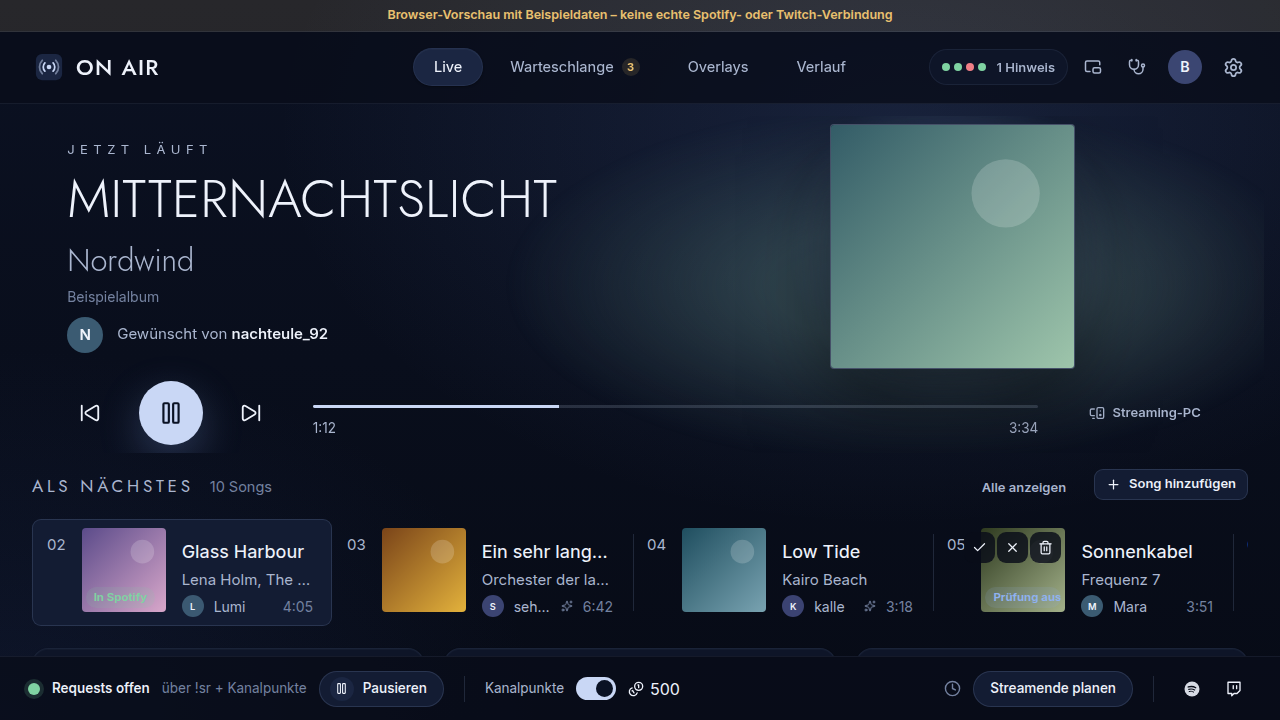
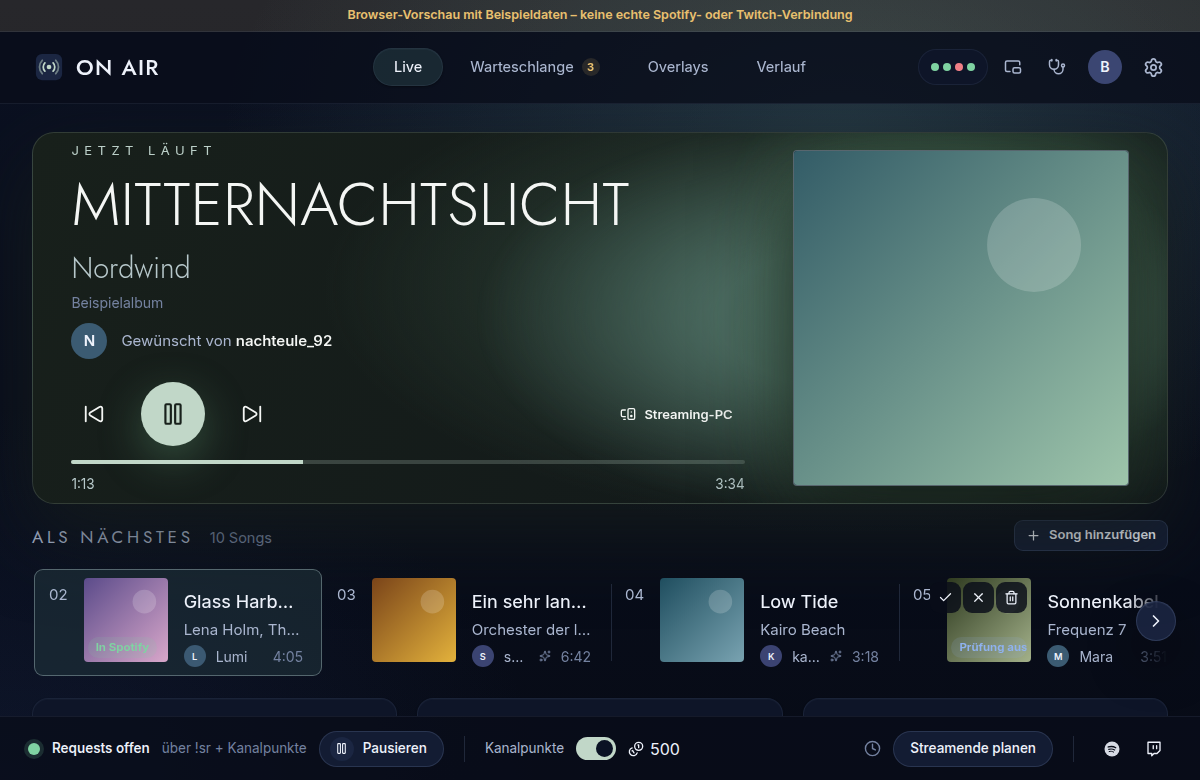
ON AIR: Stimmige Proportionen der „Jetzt läuft“-Bühne
Titel, Interpret, Wunsch und Steuerung stehen links in einer Spalte; das Cover rechts ist so
groß wie dieser Block und schließt bündig ab (vorher: kleines Cover mittig in einer eigenen
Spalte, große Lücke, Steuerung über die ganze Breite). Gerät/Link neben den Tasten, Fortschritt
darunter; kleines Cover statt keinem bei niedrigen Fenstern.

Claude-Session: https://claude.ai/code/session_01JDDQfEFboTURNtnU1jZ9fM

diff --git a/on-air/src/components/NowPlaying.tsx b/on-air/src/components/NowPlaying.tsx
@@ -92,56 +92,58 @@ export function NowPlayingCard({ snap, onConnect }: { snap: AppSnapshot; onConne
   return (
     <HeroFrame cover={cover}>
       <div className="stage-body">
-        <div className="stage-text">
-          <span className="stage-kicker">{kicker}{track?.explicit ? <Badge title={t("q.explicit_label")}>{t("q.explicit")}</Badge> : null}</span>
-          <h2 className="stage-title" title={title} style={{ ["--lw" as string]: Math.max(6, ...title.split(/\s+/).map((w) => w.length)) }}>{title}</h2>
-          <div className="stage-artist ellipsis" title={sub}>{sub}</div>
-          {kind === "track" && track!.album ? <div className="stage-album ellipsis">{track!.album}</div> : null}
-          {requester && (
-            <div className="stage-req">
-              <Avatar name={requester} size={36} />
-              <span>{t("np.requested_from")} <b>{requester}</b></span>
-              {requestSource === "channel_points" ? <Sparkles size={14} className="subtle" aria-label={t("rc.points")} /> : null}
+        <div className="stage-main">
+          <div className="stage-text">
+            <span className="stage-kicker">{kicker}{track?.explicit ? <Badge title={t("q.explicit_label")}>{t("q.explicit")}</Badge> : null}</span>
+            <h2 className="stage-title" title={title} style={{ ["--lw" as string]: Math.max(6, ...title.split(/\s+/).map((w) => w.length)) }}>{title}</h2>
+            <div className="stage-artist ellipsis" title={sub}>{sub}</div>
+            {kind === "track" && track!.album ? <div className="stage-album ellipsis">{track!.album}</div> : null}
+            {requester && (
+              <div className="stage-req">
+                <Avatar name={requester} size={36} />
+                <span>{t("np.requested_from")} <b>{requester}</b></span>
+                {requestSource === "channel_points" ? <Sparkles size={14} className="subtle" aria-label={t("rc.points")} /> : null}
+              </div>
+            )}
+          </div>
+          <div className="stage-transport">
+            <div className="stage-buttons">
+              <button className="icon-btn lg" aria-label={t("np.prev")} title={controls && pb.actions.can_skip_prev ? t("np.prev") : disabledReason} disabled={!controls || !pb.actions.can_skip_prev} onClick={() => api.transport("previous").catch(toastError)}><SkipBack size={22} /></button>
+              {pb.is_playing ? (
+                <button className="play-btn" aria-label={t("np.pause")} title={controls ? t("np.pause") : disabledReason} disabled={!controls || !pb.actions.can_pause} onClick={() => api.transport("pause").catch(toastError)}><Pause size={26} /></button>
+              ) : (
+                <button className="play-btn" aria-label={t("np.play")} title={controls ? t("np.play") : disabledReason} disabled={!controls || !pb.actions.can_resume} onClick={() => api.transport("resume").catch(toastError)}><Play size={26} /></button>
+              )}
+              <button className="icon-btn lg" aria-label={t("np.next")} title={controls && pb.actions.can_skip_next ? t("np.next") : disabledReason} disabled={!controls || !pb.actions.can_skip_next} onClick={() => api.transport("next").catch(toastError)}><SkipForward size={22} /></button>
             </div>
-          )}
+            <div className="stage-progress">
+              {stale ? (
+                <div className="row small" style={{ color: "var(--warn)", gap: 6 }}><Info size={14} /> {t("np.stale_hint", { time: clockTime(pb.fetched_at_ms, getLang()) })}</div>
+              ) : kind !== "ad" && dur > 0 ? (
+                <>
+                  <div className="bar" role="progressbar" aria-label={`${duration(progress)} / ${duration(dur)}`} aria-valuemin={0} aria-valuemax={100} aria-valuenow={Math.round(pct)}>
+                    <i style={{ transform: `scaleX(${Math.max(0, Math.min(1, pct / 100))})` }} />
+                  </div>
+                  <div className="stage-times num"><span>{duration(progress)}</span><span>{duration(dur)}</span></div>
+                </>
+              ) : null}
+            </div>
+            <div className="stage-extra">
+              {pb.device && (
+                <button className="btn btn-ghost btn-sm" onClick={() => setDevicesOpen(true)} disabled={!usable} title={t("sp.choose_device")}>
+                  <MonitorSpeaker size={16} /> <span className="ellipsis" style={{ maxWidth: 150 }}>{pb.device.name}</span>
+                </button>
+              )}
+              {link && (
+                <a className="icon-btn" href={link} title={t("np.open_link")} aria-label={t("np.open_link")} onClick={(e) => { e.preventDefault(); void api.openExternal(link).catch(toastError); }}>
+                  <ExternalLink size={17} />
+                </a>
+              )}
+            </div>
+          </div>
         </div>
         <div className="stage-cover">
           {kind === "ad" ? <div className="cover-ph"><Megaphone size={48} /></div> : <Cover url={cover} alt={track?.album ?? ep?.show ?? ""} />}
-        </div>
-      </div>
-      <div className="stage-transport">
-        <div className="stage-buttons">
-          <button className="icon-btn lg" aria-label={t("np.prev")} title={controls && pb.actions.can_skip_prev ? t("np.prev") : disabledReason} disabled={!controls || !pb.actions.can_skip_prev} onClick={() => api.transport("previous").catch(toastError)}><SkipBack size={22} /></button>
-          {pb.is_playing ? (
-            <button className="play-btn" aria-label={t("np.pause")} title={controls ? t("np.pause") : disabledReason} disabled={!controls || !pb.actions.can_pause} onClick={() => api.transport("pause").catch(toastError)}><Pause size={26} /></button>
-          ) : (
-            <button className="play-btn" aria-label={t("np.play")} title={controls ? t("np.play") : disabledReason} disabled={!controls || !pb.actions.can_resume} onClick={() => api.transport("resume").catch(toastError)}><Play size={26} /></button>
-          )}
-          <button className="icon-btn lg" aria-label={t("np.next")} title={controls && pb.actions.can_skip_next ? t("np.next") : disabledReason} disabled={!controls || !pb.actions.can_skip_next} onClick={() => api.transport("next").catch(toastError)}><SkipForward size={22} /></button>
-        </div>
-        <div className="stage-progress">
-          {stale ? (
-            <div className="row small" style={{ color: "var(--warn)", gap: 6 }}><Info size={14} /> {t("np.stale_hint", { time: clockTime(pb.fetched_at_ms, getLang()) })}</div>
-          ) : kind !== "ad" && dur > 0 ? (
-            <>
-              <div className="bar" role="progressbar" aria-label={`${duration(progress)} / ${duration(dur)}`} aria-valuemin={0} aria-valuemax={100} aria-valuenow={Math.round(pct)}>
-                <i style={{ transform: `scaleX(${Math.max(0, Math.min(1, pct / 100))})` }} />
-              </div>
-              <div className="stage-times num"><span>{duration(progress)}</span><span>{duration(dur)}</span></div>
-            </>
-          ) : null}
-        </div>
-        <div className="stage-extra">
-          {pb.device && (
-            <button className="btn btn-ghost btn-sm" onClick={() => setDevicesOpen(true)} disabled={!usable} title={t("sp.choose_device")}>
-              <MonitorSpeaker size={16} /> <span className="ellipsis" style={{ maxWidth: 150 }}>{pb.device.name}</span>
-            </button>
-          )}
-          {link && (
-            <a className="icon-btn" href={link} title={t("np.open_link")} aria-label={t("np.open_link")} onClick={(e) => { e.preventDefault(); void api.openExternal(link).catch(toastError); }}>
-              <ExternalLink size={17} />
-            </a>
-          )}
         </div>
       </div>
       {devicesOpen && <DevicesDialog onClose={() => setDevicesOpen(false)} />}

diff --git a/on-air/src/styles/app.css b/on-air/src/styles/app.css
@@ -204,11 +204,13 @@ a { color: var(--accent); }
 /* ---------- Live: Bühne „Jetzt läuft“ ---------- */
 .live-page { gap: var(--s7); }
 .hero { position: relative; overflow: hidden; isolation: isolate; }
-.stage { border-radius: var(--r-xl); background: transparent; padding: clamp(16px, 2.6vw, 36px) clamp(16px, 4vw, 64px) var(--s5); margin: calc(-1 * var(--s4)) calc(-1 * var(--s4)) 0; }
+.stage { border-radius: var(--r-xl); padding: clamp(20px, 3.2vw, 44px); }
 .hero-bg { position: absolute; inset: 0; z-index: -2; -webkit-mask-image: radial-gradient(closest-side at 70% 50%, #000 35%, transparent); mask-image: radial-gradient(closest-side at 70% 50%, #000 35%, transparent); background-size: cover; background-position: 70% center; filter: blur(70px) saturate(1.1); opacity: .32; transform: scale(1.1); will-change: transform; /* eigene Ebene: der Weichzeichner wird einmal gerastert */ }
 .hero-bg.none { background: radial-gradient(600px 400px at 72% 40%, var(--glow), transparent 70%); filter: none; opacity: 1; }
 
-.stage-body { display: grid; grid-template-columns: minmax(0, 1.1fr) minmax(0, 1fr); gap: clamp(24px, 4vw, 64px); align-items: center; }
+/* Links Titel + Steuerung, rechts das Cover – so groß wie der linke Block, bündig rechts. */
+.stage-body { display: grid; grid-template-columns: minmax(0, 1fr) auto; gap: clamp(28px, 4vw, 72px); align-items: stretch; }
+.stage-main { display: flex; flex-direction: column; justify-content: space-between; gap: clamp(18px, 3vh, 36px); min-width: 0; }
 .stage-text { min-width: 0; display: flex; flex-direction: column; container-type: inline-size; }
 .stage-kicker { display: inline-flex; align-items: center; gap: 10px; font-size: 13px; letter-spacing: 0.42em; text-transform: uppercase; color: var(--text-2); margin-bottom: clamp(10px, 2vh, 18px); }
 .stage-title {
@@ -221,12 +223,15 @@ a { color: var(--accent); }
 .stage-album { color: var(--text-3); font-size: 14px; margin-top: 2px; }
 .stage-req { display: inline-flex; align-items: center; gap: 14px; margin-top: clamp(12px, 2.2vh, 22px); font-size: 17px; color: var(--text-2); }
 .stage-req b { color: var(--text); font-weight: 560; }
-.stage-cover { justify-self: center; width: min(100%, 400px, 44vh); aspect-ratio: 1 / 1; position: relative; }
+.stage-cover { justify-self: end; align-self: center; width: clamp(200px, min(30vw, 46vh), 460px); aspect-ratio: 1 / 1; position: relative; }
 .stage-cover::before { content: ""; position: absolute; inset: -18%; z-index: -1; background: radial-gradient(closest-side, var(--glow), transparent); }
 .stage-cover .cover, .stage-cover .cover-ph { border-radius: 4px; border: 1px solid rgba(200, 215, 245, 0.28); box-shadow: 0 30px 80px rgba(0, 0, 0, 0.5); }
-.stage-transport { display: grid; grid-template-columns: auto minmax(0, 1fr) auto; align-items: center; gap: clamp(16px, 3vw, 44px); margin-top: clamp(18px, 3vh, 40px); }
+.stage-transport { display: grid; grid-template-columns: auto minmax(0, 1fr); grid-template-areas: "buttons extra" "progress progress"; align-items: center; column-gap: 20px; row-gap: 14px; }
+.stage-buttons { grid-area: buttons; }
+.stage-extra { grid-area: extra; justify-self: end; }
+.stage-progress { grid-area: progress; }
 .stage-buttons { display: flex; align-items: center; gap: clamp(12px, 2vw, 30px); }
-.stage-progress { min-width: 0; padding-top: 18px; }
+.stage-progress { min-width: 0; }
 .stage-times { display: flex; justify-content: space-between; color: var(--text-2); font-size: 13.5px; margin-top: 10px; }
 .stage-extra { display: flex; align-items: center; gap: 6px; }
 .bar { position: relative; height: 3px; border-radius: 3px; background: rgba(200, 215, 245, 0.16); overflow: hidden; }
@@ -242,10 +247,8 @@ a { color: var(--accent); }
 .transport { display: flex; align-items: center; gap: var(--s2); margin-top: var(--s4); flex-wrap: wrap; }
 .clamp2 { display: -webkit-box; -webkit-line-clamp: 2; -webkit-box-orient: vertical; overflow: hidden; overflow-wrap: anywhere; }
 @media (max-width: 900px) {
-  .stage-body { grid-template-columns: minmax(0, 1fr); }
-  .stage-cover { order: -1; width: min(60%, 260px); justify-self: start; }
-  .stage-transport { grid-template-columns: auto minmax(0, 1fr); column-gap: 20px; row-gap: 4px; }
-  .stage-extra { grid-column: 1 / -1; }
+  .stage-body { grid-template-columns: minmax(0, 1fr) auto; gap: 20px; }
+  .stage-cover { width: clamp(120px, 26vw, 220px); align-self: start; }
   .play-btn { width: 64px; height: 64px; }
 }
 
@@ -596,10 +599,10 @@ html.is-hidden *, html.is-hidden *::before, html.is-hidden *::after { animation-
 /* Niedrige Fenster: Bühne kompakter, damit „Als Nächstes“ im Blick bleibt. */
 @media (max-height: 860px) {
   .stage { padding-top: 8px; padding-bottom: 8px; }
-  .stage-cover { width: min(100%, 300px, 34vh); }
+  .stage-cover { width: clamp(180px, min(28vw, 44vh), 380px); }
   .stage-title { font-size: min(clamp(34px, min(5vw, 9vh), 96px), calc(100cqi / (var(--lw, 8) * 0.64))); }
   .stage-req { margin-top: 10px; font-size: 15px; }
-  .stage-transport { margin-top: 12px; }
+
   .play-btn { width: 64px; height: 64px; }
   .live-page { gap: var(--s4); }
   .upnext-cover, .upnext-coverbox { width: 84px; height: 84px; }
@@ -607,8 +610,8 @@ html.is-hidden *, html.is-hidden *::before, html.is-hidden *::after { animation-
 }
 @media (max-height: 640px) {
   :root { --top-h: 56px; --bar-h: 52px; }
-  .stage-cover, .stage-album { display: none; }
-  .stage-body { grid-template-columns: minmax(0, 1fr); }
+  .stage-album { display: none; }
+  .stage-cover { width: clamp(110px, 28vh, 170px); }
   .stage-kicker { margin-bottom: 6px; }
   .stage-title { font-size: min(clamp(28px, 7vh, 64px), calc(100cqi / (var(--lw, 8) * 0.64))); -webkit-line-clamp: 2; }
   .stage-artist { font-size: 20px; margin-top: 4px; }
